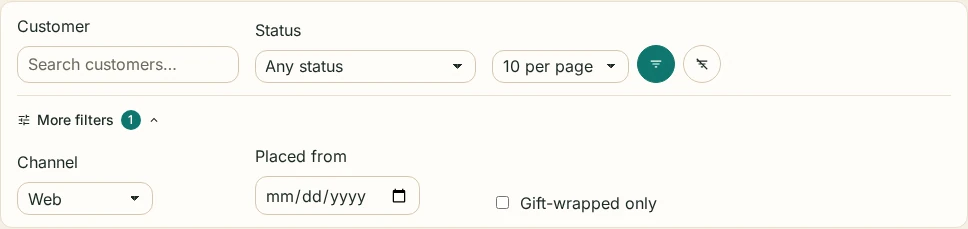
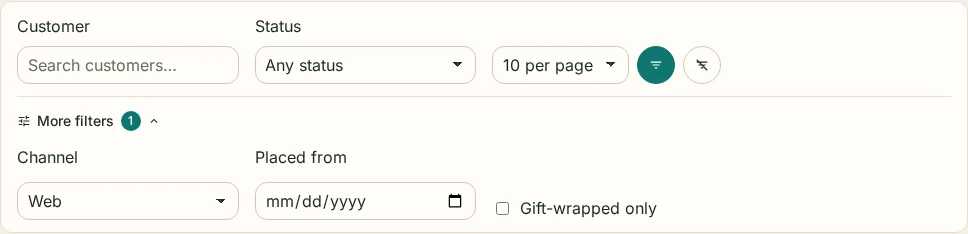
fix(filters): More filters rows, one control height, toolbar row (2.74.1) (#173)
* fix(filters): More filters rows fill their track, one filter control height, toolbar stays a row (2.74.1)

* fix(filters): no new token for the More filters label gap (2.74.1)

diff --git a/demo/symfony8/e2e/tests/list-filter-standard.spec.ts b/demo/symfony8/e2e/tests/list-filter-standard.spec.ts
@@ -76,4 +76,43 @@ test.describe('list filters standard (2.72)', () => {
     await close.click();
     await expect(sheet).toBeHidden();
   });
+
+  // 2.74.1: every single-line control of the bar has the same height, and the "More filters" rows stack like the main row
+  test('one control height, and the More filters rows fill their track (2.74.1)', async ({ page }) => {
+    await page.setViewportSize({ width: 1280, height: 800 });
+    await page.goto(`${URL}?filters%5Bchannel%5D=web`);
+    const form = page.locator('form[data-nowo-ui-filters]');
+    await expect(form.locator('details.nowo-ui-filters-more')).toHaveAttribute('open', '');
+    const heights = await form.evaluate((f) =>
+      [...f.querySelectorAll<HTMLElement>('input:not([type=checkbox]):not([type=hidden]), select')].map((e) => Math.round(e.getBoundingClientRect().height * 100) / 100),
+    );
+    expect(heights.length).toBeGreaterThanOrEqual(4);
+    expect(new Set(heights).size).toBe(1);
+
+    const more = form.locator('.nowo-ui-filters-more__fields');
+    const row = more.locator('> .nowo-ui-filters__field').filter({ has: page.locator('#filters_placed_from') });
+    const rowBox = (await row.boundingBox())!;
+    const inputBox = (await row.locator('#filters_placed_from').boundingBox())!;
+    const labelBox = (await row.locator('label').first().boundingBox())!;
+    expect(inputBox.width).toBeGreaterThanOrEqual(rowBox.width - 1); // fills the track, like the main row
+    expect(labelBox.y + labelBox.height).toBeLessThanOrEqual(inputBox.y + 1); // label above the control
+    const main = (await form.locator('#filters_q').boundingBox())!;
+    expect(Math.abs(inputBox.width - main.width)).toBeLessThanOrEqual(1); // same track width as the main row
+  });
+
+  test('a toolbar that is also a dialog form keeps its actions inline and wrapping (2.74.1)', async ({ page }) => {
+    await page.setViewportSize({ width: 390, height: 700 });
+    await page.goto(URL);
+    const styles = await page.evaluate(() => {
+      const body = document.createElement('div');
+      body.className = 'nowo-ui-dialog__body';
+      body.innerHTML = '<form class="nowo-ui-toolbar"><a href="#" class="nowo-ui-btn">Replace the key</a><button type="button" class="nowo-ui-btn">Disconnect</button></form>';
+      document.body.appendChild(body);
+      const form = body.querySelector('form')!;
+      const [a, b] = [...form.children].map((c) => c.getBoundingClientRect());
+      const cs = getComputedStyle(form);
+      return { direction: cs.flexDirection, wrap: cs.flexWrap, sameRow: Math.abs(a.top - b.top) < 2 };
+    });
+    expect(styles).toEqual({ direction: 'row', wrap: 'wrap', sameRow: true });
+  });
 });

diff --git a/src/Resources/public/css/nowo-ui.css b/src/Resources/public/css/nowo-ui.css
@@ -72,6 +72,9 @@
 .nowo-ui-page-header,
 .nowo-ui-toolbar {
   display: flex;
+  /* 2.74.1: explicit row — a toolbar that is also a dialog form (`:where(form.nowo-ui-form, .nowo-ui-dialog__body form)`
+     is a flex column) kept the column and stacked its actions at 390px; they stay inline and wrap when they do not fit */
+  flex-direction: row;
   flex-wrap: wrap;
   align-items: center;
   gap: 0.35rem;
@@ -2956,6 +2959,43 @@ form.nowo-ui-filters[data-nowo-ui-region] > .nowo-ui-filters-more {
 .nowo-ui-filters-more__fields > * {
   min-width: 0;
   margin: 0;
+}
+
+/* 2.74.1: the rows of the "More filters" panel are not direct children of the form, so the field rules above never
+   reached them: label and control sat side by side at the control's intrinsic width. They now stack like the rows of
+   the main grid (label above, control filling the track) and span like them (lg = 2 tracks, full = the whole row). */
+.nowo-ui-filters-more__fields > .nowo-ui-filters__field {
+  display: flex;
+  flex-direction: column;
+  gap: 0.35rem;
+}
+
+.nowo-ui-filters-more__fields > .nowo-ui-filters__field :is(input, select, textarea):not([type='checkbox'], [type='radio']) {
+  width: 100%;
+  max-width: none;
+}
+
+.nowo-ui-filters-more__fields > .nowo-ui-filters__field--full {
+  grid-column: 1 / -1;
+}
+
+@media (min-width: 48rem) {
+  .nowo-ui-filters-more__fields > .nowo-ui-filters__field--lg {
+    grid-column: span 2;
+  }
+}
+
+/* 2.74.1: one control height for every single-line field of the list filters (the search input was 36px, the
+   selects 38px+). Same token as the filter bar and the icon-only actions (--nowo-ui-filter-control-height, default
+   --nowo-ui-control-height); :where() keeps specificity at zero so a host that sizes its fields on purpose wins. */
+:where(form.nowo-ui-filters[data-nowo-ui-region]) {
+  --nowo-ui-filter-control-height: var(--nowo-ui-control-height, 2.375rem);
+}
+
+:where(form.nowo-ui-filters[data-nowo-ui-region]) :where(input:not([type='checkbox'], [type='radio'], [type='color'], [type='range'], [type='file'], [type='hidden']), select:not([multiple], [size])) {
+  box-sizing: border-box;
+  block-size: var(--nowo-ui-filter-control-height);
+  min-block-size: var(--nowo-ui-filter-control-height);
 }
 
 /* --- Filter bar (opt-in, 1.12) ---

diff --git a/src/Resources/public/css/nowo-ui.unlayered.css b/src/Resources/public/css/nowo-ui.unlayered.css
@@ -57,6 +57,9 @@
 .nowo-ui-page-header,
 .nowo-ui-toolbar {
   display: flex;
+  /* 2.74.1: explicit row — a toolbar that is also a dialog form (`:where(form.nowo-ui-form, .nowo-ui-dialog__body form)`
+     is a flex column) kept the column and stacked its actions at 390px; they stay inline and wrap when they do not fit */
+  flex-direction: row;
   flex-wrap: wrap;
   align-items: center;
   gap: 0.35rem;
@@ -2941,6 +2944,43 @@ form.nowo-ui-filters[data-nowo-ui-region] > .nowo-ui-filters-more {
 .nowo-ui-filters-more__fields > * {
   min-width: 0;
   margin: 0;
+}
+
+/* 2.74.1: the rows of the "More filters" panel are not direct children of the form, so the field rules above never
+   reached them: label and control sat side by side at the control's intrinsic width. They now stack like the rows of
+   the main grid (label above, control filling the track) and span like them (lg = 2 tracks, full = the whole row). */
+.nowo-ui-filters-more__fields > .nowo-ui-filters__field {
+  display: flex;
+  flex-direction: column;
+  gap: 0.35rem;
+}
+
+.nowo-ui-filters-more__fields > .nowo-ui-filters__field :is(input, select, textarea):not([type='checkbox'], [type='radio']) {
+  width: 100%;
+  max-width: none;
+}
+
+.nowo-ui-filters-more__fields > .nowo-ui-filters__field--full {
+  grid-column: 1 / -1;
+}
+
+@media (min-width: 48rem) {
+  .nowo-ui-filters-more__fields > .nowo-ui-filters__field--lg {
+    grid-column: span 2;
+  }
+}
+
+/* 2.74.1: one control height for every single-line field of the list filters (the search input was 36px, the
+   selects 38px+). Same token as the filter bar and the icon-only actions (--nowo-ui-filter-control-height, default
+   --nowo-ui-control-height); :where() keeps specificity at zero so a host that sizes its fields on purpose wins. */
+:where(form.nowo-ui-filters[data-nowo-ui-region]) {
+  --nowo-ui-filter-control-height: var(--nowo-ui-control-height, 2.375rem);
+}
+
+:where(form.nowo-ui-filters[data-nowo-ui-region]) :where(input:not([type='checkbox'], [type='radio'], [type='color'], [type='range'], [type='file'], [type='hidden']), select:not([multiple], [size])) {
+  box-sizing: border-box;
+  block-size: var(--nowo-ui-filter-control-height);
+  min-block-size: var(--nowo-ui-filter-control-height);
 }
 
 /* --- Filter bar (opt-in, 1.12) ---

diff --git a/docs/CHANGELOG.md b/docs/CHANGELOG.md
@@ -166,6 +166,9 @@ and this project adheres to [Semantic Versioning](https://semver.org/).
 ### Fixed
 
 - Demo platform shell: the pagination per-page select (table card footer) uses the platform input border (3:1 or more), like the other fields.
+- List filters, "More filters" panel: its rows stack label above control and the control fills the grid track like the main row (they sat side by side at the control's intrinsic width in the default theme); `lg` / `full` widths span there too.
+- List filters: the search input, selects and date fields share one height (`--nowo-ui-filter-control-height`, default `--nowo-ui-control-height`), with zero specificity so a host that sizes its fields wins.
+- `toolbar` / page header: `flex-direction: row` is explicit, so a toolbar that is also a dialog form (CrmKit HubSpot "Replace key" / "Disconnect") keeps its actions inline and wrapping instead of stacking at 390px.
 
 ## [2.74.0] - 2026-11-24
 
